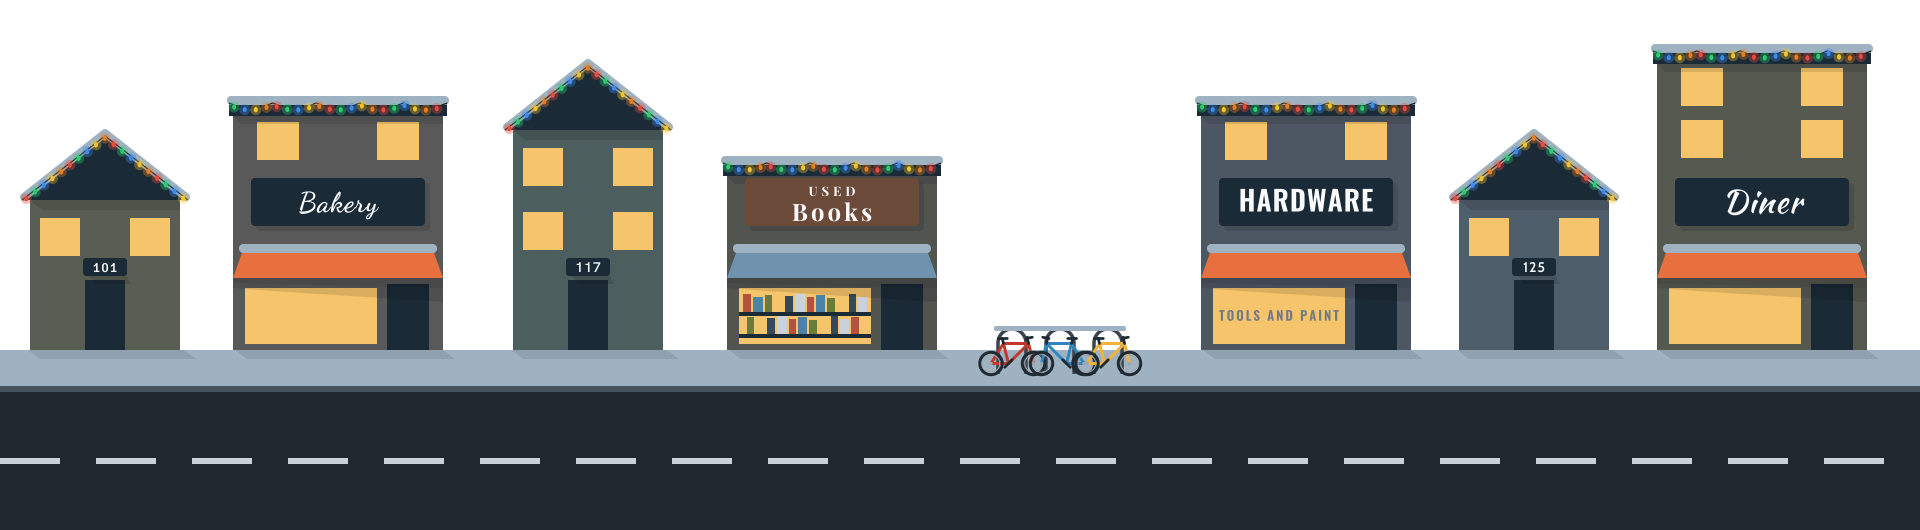
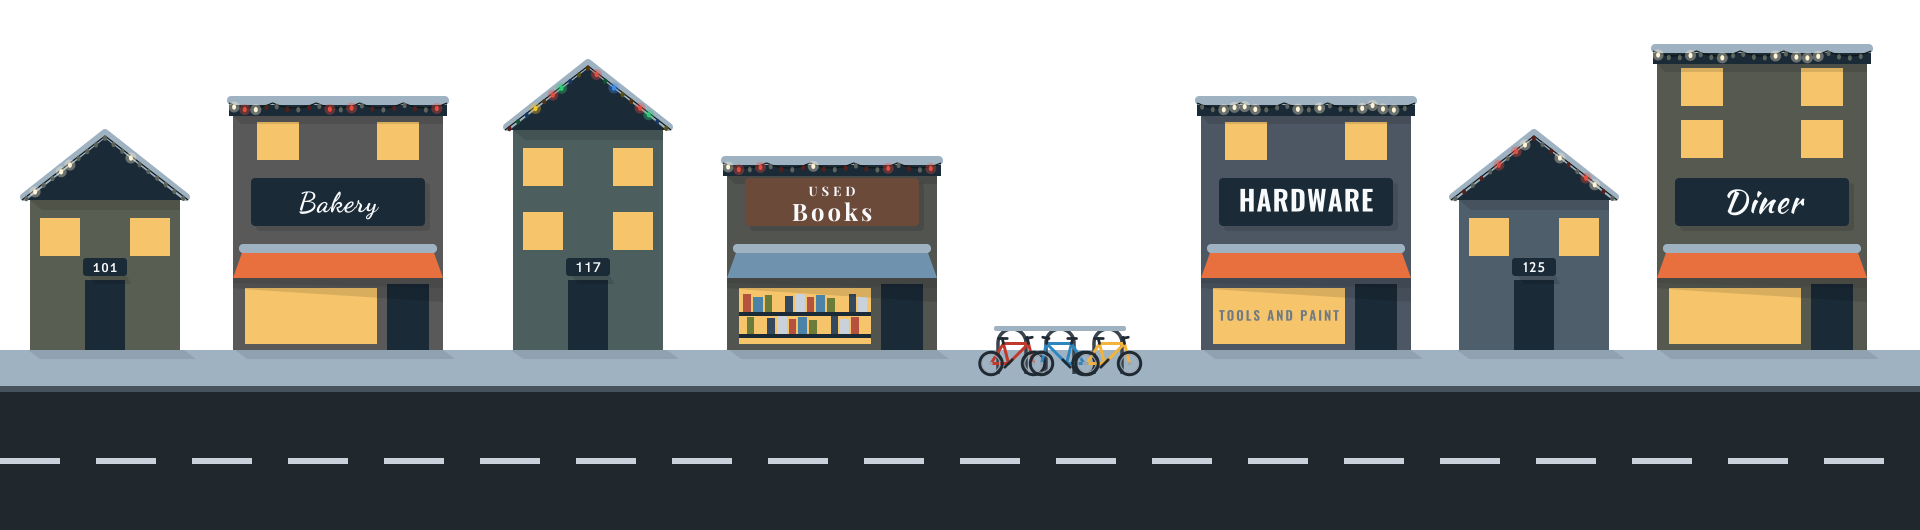
Show kayaks only in spring and summer, and add light styles and blinking
The kayaks beside the river are now drawn only in spring and summer.

Each building's Christmas lights are now rainbow, all white, or red and
white. The new extras.christmas_lights setting picks one style for the
whole town, or "mixed" (the default), where each building gets a style
at random, never the same as the building with lights before it.

At dusk and night, two thirds of the bulbs blink on and off at random.
Each bulb is in one of three groups. The town images draw groups 1 and 2
off, and the generator writes small images of the lit bulbs of each
group for each building. MainScene.brs adds them to the town strip and
turns them on and off at random.

Claude-Session: https://claude.ai/code/session_01F1XyeMhaxYxwWwg1RsrrS5

diff --git a/tools/generate_images.py b/tools/generate_images.py
@@ -18,12 +18,13 @@ import argparse
 import io
 import json
 import os
+import random
 import sys
-from PIL import Image
+from PIL import Image, ImageChops
 
 sys.path.insert(0, os.path.dirname(os.path.abspath(__file__)))
 from riverside import art, scenery, buildings, layout, sprites, previews
-from riverside.art import P, SEASONS, season_palette, christmas_palette, render
+from riverside.art import P, SEASONS, LIGHT_STYLES, BLINK_GROUPS, season_palette, christmas_palette, render
 from riverside.config import load, ConfigError
 
 ROOT = os.path.dirname(os.path.dirname(os.path.abspath(__file__)))
@@ -45,9 +46,27 @@ def pet_size(images, pet):
     with Image.open(os.path.join(images, pet["image"] + ".png")) as im:
         return im.size
 
+def light_styles(town, i):
+    """The style of Christmas lights for each building in town section i. With
+    christmas_lights "mixed", each building with lights gets a style picked at
+    random, but never the same style as the building with lights before it.
+    The random numbers start from the section number, so a building has the
+    same style in every image."""
+    style = town["extras"]["christmas_lights"]
+    if style != "mixed":
+        return [style] * len(town["sections"][i])
+    rnd, prev, out = random.Random(i), None, []
+    for b, x in town["sections"][i]:
+        if b["type"] in buildings.LIT:
+            prev = rnd.choice([s for s in LIGHT_STYLES if s != prev])
+        out.append(prev)
+    return out
+
 def town_section(town, i, p, season):
     section = town["sections"][i]
-    return ("".join(buildings.draw(b, x, p, season) for b, x in section) + scenery.street(p, season, 11 + i)
+    styles = light_styles(town, i) if p.get("christmas") else [None] * len(section)
+    return ("".join(buildings.draw(b, x, dict(p, light_style=style) if style else p, season)
+                    for (b, x), style in zip(section, styles)) + scenery.street(p, season, 11 + i)
             + buildings.sidewalk_shadows(section, p) + buildings.sidewalk_bikes(section, p, season, town["extras"]))
 
 def christmas_seasons(town):
@@ -77,6 +96,56 @@ def write_lamps(town, out):
             for season, suffix in (("summer", ""), ("winter", "_winter")):
                 render(buildings.street_lamp(0, palette(P[pal]), season), f"{left} {top} {w} {h}", w, h,
                        os.path.join(out, f"street_lamp{name}{suffix}_{pal}.png"))
+
+def write_blink(town, out):
+    """The images that make the Christmas lights blink. For each building with
+    lights, there is one image for each blink group (1 and 2) that shows only
+    the lit bulbs of that group, cropped to the building. They are made by
+    drawing the town section with that group lit and keeping the pixels that
+    differ from the town image, so they line up with it exactly. There is an
+    image for each Christmas season, at dusk and at night:
+    blink_<n>_<group>_<season>_<period>.png. Returns [x, y, w, h] for each
+    building n, in townStrip coordinates, for christmasBlink in
+    town_config.json."""
+    seasons = christmas_seasons(town)
+    if not seasons:
+        return []
+    y0, h = CROPS["town"]
+    vb = f"0 {y0} 1920 {h}"
+    entries = []
+    for i, section in enumerate(town["sections"]):
+        fn = layers(town)[f"town_{LETTERS[i]}"]
+        lit = [(b, x) for b, x in section if b["type"] in buildings.LIT]
+        if not lit:
+            continue
+        # Each building's images may use the space up to halfway to the next
+        # building with lights, so no image holds bulbs from a neighbor.
+        edges = [0] + [(x0 + buildings.width(b0) + x1) / 2 for (b0, x0), (b1, x1) in zip(lit, lit[1:])] + [1920]
+        diffs = {}
+        for season in seasons:
+            for pal in ("dusk", "night"):
+                p = season_palette(pal, season)
+                base = Image.open(io.BytesIO(render(fn(christmas_palette(p, lit=(0,)), season), vb, 1920, h))).convert("RGBA")
+                for k in range(1, BLINK_GROUPS):
+                    on = Image.open(io.BytesIO(render(fn(christmas_palette(p, lit=(0, k)), season), vb, 1920, h))).convert("RGBA")
+                    r, g, bl, a = ImageChops.difference(on, base).split()
+                    mask = ImageChops.lighter(ImageChops.lighter(r, g), ImageChops.lighter(bl, a)).point(lambda v: 255 if v else 0)
+                    diffs[(season, pal, k)] = Image.composite(on, Image.new("RGBA", on.size), mask), mask
+        for j in range(len(lit)):
+            left, right = int(edges[j]), int(edges[j + 1])
+            box = None
+            for _, mask in diffs.values():
+                b = mask.crop((left, 0, right, h)).getbbox()
+                if b:
+                    b = (b[0] + left, b[1], b[2] + left, b[3])
+                    box = b if box is None else (min(box[0], b[0]), min(box[1], b[1]), max(box[2], b[2]), max(box[3], b[3]))
+            if box is None:
+                continue
+            n = len(entries)
+            for (season, pal, k), (im, _) in diffs.items():
+                im.crop(box).save(os.path.join(out, f"blink_{n}_{k}_{season}_{pal}.png"), optimize=True)
+            entries.append([i * 1920 + box[0], box[1], box[2] - box[0], box[3] - box[1]])
+    return entries
 
 def layers(town):
     """Returns name -> drawing function(p, season) for every scenery layer."""
@@ -109,10 +178,13 @@ def write_images(town, out):
             if len(seasons) < len(SEASONS):
                 render(fn(P[pal], "summer"), vb, 1920, h, os.path.join(out, f"{name}_{pal}.png"))
             if name.startswith("town"):
-                # The December images, with the Christmas decorations
+                # The December images, with the Christmas decorations. Only
+                # the bulbs in group 0 are lit; the others blink (see
+                # write_blink).
                 for season in christmas_seasons(town):
-                    render(fn(christmas_palette(season_palette(pal, season)), season), vb, 1920, h,
+                    render(fn(christmas_palette(season_palette(pal, season), lit=(0,)), season), vb, 1920, h,
                            os.path.join(out, f"{name}_christmas_{season}_{pal}.png"))
+    town["blink"] = write_blink(town, out)
     sprites.write(out)
     if town["extras"]["street_lights"]:
         write_lamps(town, out)
@@ -140,6 +212,7 @@ def runtime_config(town, images):
         "parkedCarX": town["parked_car_x"], "radioLight": radio_light(town), "lamps": town["lamps"],
         "airplane": ex["airplane"], "fireflies": ex["fireflies"], "fallingLeaves": ex["falling_leaves"],
         "seasons": ex["seasons"], "christmasSeasons": christmas_seasons(town),
+        "christmasBlink": town.get("blink", []),
     }
 
 def radio_light(town):

diff --git a/tools/riverside/art.py b/tools/riverside/art.py
@@ -190,14 +190,27 @@ def flower_box(season, p, x, y, w=44):
 # lights on the buildings, garland on the gazebo and the columned hall, and
 # wreaths on the street lamps. The lights are lit at dusk and night.
 BULBS = ["#E74C3C", "#2ECC71", "#3D8BEB", "#F4C430", "#E67E22"]   # Red, green, blue, yellow, orange
+WARM_WHITE = "#FFF4D6"
+# The bulb colors for each style of lights. A building uses one style.
+LIGHT_STYLES = {"rainbow": BULBS, "white": [WARM_WHITE], "red_white": ["#E74C3C", WARM_WHITE]}
+# Each bulb is in one of three groups, picked from its position. Group 0 stays
+# on. Groups 1 and 2 blink: the town images draw them off, and MainScene.brs
+# turns them on and off at random with small images of the lit bulbs (see
+# write_blink() in generate_images.py).
+BLINK_GROUPS = 3
 GARLAND = "#2F6B3A"
 GARLAND_DARK = "#1E4A28"
 BERRY = "#C0392B"
 
-def christmas_palette(p):
+def christmas_palette(p, lit=(0, 1, 2)):
     """A copy of palette p that tells the drawings to add the Christmas
-    decorations."""
-    return dict(p, christmas=True)
+    decorations. lit lists the bulb groups that are on at dusk and night."""
+    return dict(p, christmas=True, lit=tuple(lit))
+
+def bulb_group(x, y):
+    """The blink group of the bulb at (x, y). The numbers mix the position up,
+    so bulbs next to each other are usually in different groups."""
+    return (((round(x * 10) * 73856093) ^ (round(y * 10) * 19349663)) >> 5) % BLINK_GROUPS
 
 def is_christmas(p):
     return p.get("christmas", False)
@@ -232,15 +245,19 @@ def scallops(x0, x1, y, sag=5, width=40):
     return swags(x0, x1, y, sag, max(1, round((x1 - x0) / width)))
 
 def christmas_lights(pts, p, spacing=11, start=0):
-    """A string of colored bulbs on a thin wire along the line through pts.
-    start picks the color of the first bulb, so strings next to each other do
-    not all begin with the same color. The bulbs glow at dusk and night."""
-    lit = is_dark(p)
+    """A string of bulbs on a thin wire along the line through pts, in the
+    building's style of lights (light_style in p, set by town_section() in
+    generate_images.py). start picks the color of the first bulb, so strings
+    next to each other do not all begin with the same color. At dusk and
+    night, the bulbs in the groups in p["lit"] glow and the others are off."""
+    dark = is_dark(p)
+    colors = LIGHT_STYLES[p.get("light_style", "rainbow")]
     wire = wall("#24332A", p)
     out = ('<polyline points="' + " ".join(f"{x:.1f},{y:.1f}" for x, y in pts)
            + f'" fill="none" stroke="{wire}" stroke-width="1.2" stroke-linejoin="round"/>')
     for i, (x, y) in enumerate(along(pts, spacing, spacing / 2)):
-        c = BULBS[(start + i) % len(BULBS)]
+        c = colors[(start + i) % len(colors)]
+        lit = dark and bulb_group(x, y) in p.get("lit", (0, 1, 2))
         if lit:
             out += f'<circle cx="{x:.1f}" cy="{y + 2:.1f}" r="5.5" fill="{c}" fill-opacity="0.35"/>'
         else:

diff --git a/tools/riverside/scenery.py b/tools/riverside/scenery.py
@@ -154,7 +154,7 @@ def near_b(p, season):
 TREES = [(60,692),(110,686),(170,680),(240,672),(300,668),(620,662),(680,664),(740,658),
          (1300,668),(1360,682),(1420,692),(1700,724),(1780,724),(1860,714)]
 
-# Kayaks pulled up on the grass beside the river, in every season but winter.
+# Kayaks pulled up on the grass beside the river, in spring and summer only.
 # There is only one river, on hills tile A, so all the kayaks are there. Each
 # is (center x, center y, angle in degrees, color, size). The ones higher up
 # the river are farther away, so they are smaller. The colors are day colors,
@@ -163,7 +163,7 @@ KAYAKS = [(676, 806, -14, "#D9452F", 1), (1172, 846, 22, "#F2B33D", 1), (1218, 8
           (1290, 798, -10, "#27AE60", 1), (822, 736, -6, "#8E44AD", 0.75), (788, 756, 8, "#F2B33D", 0.75),
           (1290, 714, 10, "#D9452F", 0.7), (884, 699, -4, "#2E86C1", 0.6)]
 def kayaks(p, season, places=KAYAKS):
-    if season == "winter":
+    if season not in ("spring", "summer"):
         return ""
     s = ""
     for cx, cy, angle, color, size in places:

diff --git a/tools/riverside/config.py b/tools/riverside/config.py
@@ -65,7 +65,8 @@ PETS = {"cat": ["black", "gray", "tabby", "white", "gray_white"], "guinea_pig": 
         "dog": ["yellow_lab", "black_lab", "chocolate_lab", "beagle", "corgi", "dalmatian", "dachshund", "husky"]}
 PET_IMAGE = {"cat": "cat", "guinea_pig": "guinea", "dog": "dog"}   # The first part of each image name
 EXTRAS = {"airplane": True, "kayaks": True, "fireflies": True, "falling_leaves": True, "seasons": True,
-          "table_mountain": False, "bikes": False, "street_lights": False, "christmas": True}
+          "table_mountain": False, "bikes": False, "street_lights": False, "christmas": True,
+          "christmas_lights": "mixed"}
 RADIO = dict(color="#E4DCCD", font="racing", weight=400, letter_color="#D32F2F", tower=True)
 
 # Text fields that are not drawn with the building's own font

diff --git a/tools/riverside/buildings.py b/tools/riverside/buildings.py
@@ -873,6 +873,9 @@ def street_lamps(xs, p, season):
     """The lamps at each x in xs, for the previews."""
     return "".join(street_lamp(x, p, season) for x in xs)
 
+# Building types with Christmas lights in December
+LIT = {"house", "shop", "church", "school", "columned_hall", "gas_station", "drive_through"}
+
 # Building types with walls down to the sidewalk, which get a shadow on it
 SOLID = {"house", "shop", "church", "school", "columned_hall"}
 

diff --git a/README.md b/README.md
@@ -64,8 +64,8 @@ These images are drawn by `tools/generate_images.py` from the same artwork the s
   | Fall | September 22 to December 20 | Gold hills, orange and red trees, pumpkins by doors, leaves on the sidewalk, falling leaves |
   | Winter | December 21 to March 19 | Snow on the hills, mountains, roofs, sidewalk, and pine trees, bare trees, a frozen river |
 
-  The dates are close to the equinoxes and solstices, which move by a day or so from year to year. In the southern hemisphere, the seasons are the other way around. Pine trees stay green all year. Some are plain triangles, and the others have one or two small notches cut into their sides, in four different patterns. There is one river, and in every season but winter, eight kayaks in different colors sit on the grass on both sides of it.
-- Christmas decorations for all of December (in both hemispheres): strings of colored lights along the roofs of the houses, shops, churches, school, columned hall, gas station, and drive-through restaurant, a wreath on each street light, and garland on the gazebo, the town sign, and the columned hall. The gazebo also gets a wreath on each front post. The lights glow at dusk and night. The pumpkins are put away in December. The radio station and the scenery behind the town do not change. `extras.christmas` in `town.json` turns them off.
+  The dates are close to the equinoxes and solstices, which move by a day or so from year to year. In the southern hemisphere, the seasons are the other way around. Pine trees stay green all year. Some are plain triangles, and the others have one or two small notches cut into their sides, in four different patterns. There is one river, and in spring and summer, eight kayaks in different colors sit on the grass on both sides of it.
+- Christmas decorations for all of December (in both hemispheres): strings of lights along the roofs of the houses, shops, churches, school, columned hall, gas station, and drive-through restaurant, a wreath on each street light, and garland on the gazebo, the town sign, and the columned hall. The gazebo also gets a wreath on each front post. Each building's lights are rainbow colored, all white, or red and white. At dusk and night the lights glow, and two thirds of the bulbs blink on and off at random. The pumpkins are put away in December. The radio station and the scenery behind the town do not change. `extras.christmas` in `town.json` turns them off.
 - Weather effects from the current weather:
   - Clouds: the number of clouds follows the cloud cover from the weather, in percent. Below 25 percent there are a few clouds, from 25 percent there are more, from 50 percent there are many larger clouds, and from 85 percent the sky is overcast: a gray layer of cloud covers the top of the sky with no separate clouds under it, the sky is gray, and the stars, the sun, and the moon are hidden. The weather code also sets the fewest clouds that can show, so the sky matches the text in the panel: "Partly cloudy" shows at least the second level, fog and showers at least the third, and "Overcast", drizzle, rain, snow, and thunderstorms show an overcast sky.
   - Rain and drizzle: falling rain.
@@ -163,14 +163,15 @@ Only `location` is required. The [town.json](town.json) in this repository is a 
 | `cars` | Which cars drive by: `"sedan"`, `"van"`, `"jeep"`, `"truck"`, `"sports"`, and `"buggy"`. At least 2. | all six |
 | `special_cars` | Special cars from movies: `"aston"` (the silver Aston Martin DB5 from Goldfinger), `"herbie"` (Herbie, the Love Bug: a pearl white 1963 VW Beetle with the number 53 on the door), `"kitt"` (KITT from Knight Rider: a black 1982 Pontiac Trans Am with a red scanner light on the nose), `"ecto1"` (the Ecto-1 from Ghostbusters: a white and red 1959 Cadillac ambulance with equipment on the roof), `"delorean"` (the DeLorean time machine from the first Back to the Future movie), `"mcqueen"` (Lightning McQueen from Cars: a red race car with the number 95), and `"mustang"` (the dark gray 1969 Ford Mustang Mach 1 from John Wick). Each one first drives by 6 to 25 seconds after the screensaver starts, then about once every 20 seconds to 1 minute. Special cars never park at the gas station. | none |
 | `extras.airplane` | The airplane | `true` |
-| `extras.kayaks` | The kayaks beside the river | `true` |
+| `extras.kayaks` | The kayaks beside the river, in spring and summer | `true` |
 | `extras.fireflies` | Fireflies on summer nights | `true` |
 | `extras.falling_leaves` | Falling leaves in October and November (April and May in the southern hemisphere) | `true` |
 | `extras.seasons` | Seasons from the date. When it is `false`, it is always summer, but snow still shows while it is snowing. | `true` |
 | `extras.table_mountain` | A flat-topped mountain in the shape of Table Mountain, in the center of the far mountains | `false` |
 | `extras.bikes` | Two bikes parked beside the radio station (not in winter). Bike racks have bikes either way. | `false` |
 | `extras.street_lights` | Old-fashioned cast iron street lights along the sidewalk, about 480 pixels apart. A light moves to the side when it would cover a house number. Animals walk behind the lights. Their lanterns light up at dusk and night. | `false` |
-| `extras.christmas` | Christmas decorations in December: colored lights along the roofs of the buildings in town, a wreath on each street light, and garland on the gazebo, the town sign, and the columned hall. The lights glow at dusk and night. | `true` |
+| `extras.christmas` | Christmas decorations in December: lights along the roofs of the buildings in town, a wreath on each street light, and garland on the gazebo, the town sign, and the columned hall. The lights glow at dusk and night, and most of the bulbs blink at random. | `true` |
+| `extras.christmas_lights` | The style of the Christmas lights: `"rainbow"`, `"white"`, `"red_white"`, or `"mixed"`, where each building gets one of the three styles, never the same style as the building with lights before it. | `"mixed"` |
 
 ### Buildings
 

diff --git a/AGENTS.md b/AGENTS.md
@@ -64,11 +64,12 @@ These apply to code, comments, commit messages, README.md, and this file.
 
 - `currentSeason()` in `components/MainScene.brs` picks the season from fixed dates: spring from March 20, summer from June 21, fall from September 22, and winter from December 21. `m.seasonOverride` forces one season. With `seasons` off in the settings it is always summer. In the southern hemisphere the season is swapped (winter and summer, spring and fall).
 - Season colors are in `SEASON_COLORS` in `tools/riverside/art.py`. Write only the day color. `season_palette()` makes the dusk and night colors by darkening the day color the same way the summer palette darkens that key. New keys that are not in `P` must be added to `SEASON_BASE_KEY` so they darken like an existing key.
-- There is only one river, on hills tile A, as the owner asked. The kayaks beside it (`extras.kayaks`) are featured, because the owner's family likes kayaking. They are drawn by `kayaks()` in the hills layer, at the positions and sizes in `KAYAKS`; the ones higher up the river are smaller because they are farther away. They are on the grass, not in the water; if the river shape changes, check that they still are. They are not drawn in winter.
+- There is only one river, on hills tile A, as the owner asked. The kayaks beside it (`extras.kayaks`) are featured, because the owner's family likes kayaking. They are drawn by `kayaks()` in the hills layer, at the positions and sizes in `KAYAKS`; the ones higher up the river are smaller because they are farther away. They are on the grass, not in the water; if the river shape changes, check that they still are. They are drawn only in spring and summer.
 - Every scenery layer function takes `(p, season)`. Seasonal details (snow on roofs, pumpkins, flower boxes) use helpers such as `snow_flat()`, `snow_ridge()`, `pumpkins()`, and `flower_box()`, which return an empty string in other seasons.
 - `SEASONAL` in `tools/generate_images.py` and `m.seasonalLayers` in `components/MainScene.brs` must list the same layers and seasons. Every town section has all four seasons; `init()` adds the town sections to `m.seasonalLayers` from the number of sections. Otherwise the scene asks for an image that does not exist.
 - While snow is falling, `applyScene()` uses the winter images in any season. Falling leaves and fireflies are hidden while rain or snow is falling. Nothing falls in spring, as the owner asked. Leaves fall only in October and November (April and May in the southern hemisphere), from `leafMonths()`. In those months, `onLeafTimer()` fades the leaves out and back in at random times (`m.leafOnMin` and the other leaf settings). The leaf animation keeps running while they are faded out, so when they fade back in, they are already partway down the screen.
 - Christmas decorations (`extras.christmas`, on by default) show for all of December, in both hemispheres, as the owner asked. They are only on the town layer and the street lamps: lights along the roofs of the buildings, a wreath on each lamp post, and garland on the gazebo, the town sign, and the columned hall. Leave the radio station and the scenery behind the town without decorations, as the owner asked. The drawings check `is_christmas(p)`: `christmas_palette()` in `art.py` adds a `christmas` key to the palette, so the draw functions keep their `(spec, x, p, season)` arguments. The helpers are `christmas_lights()`, `garland()`, `wreath()`, `bow()`, `swags()`, and `scallops()` in `art.py`. The lights glow when `is_dark(p)`. Pumpkins are not drawn in December, and the gazebo's Christmas decorations take the place of its seasonal ones. The generator writes `town_<letter>_christmas_<season>_<period>.png` for each season in `christmas_seasons()` (the seasons December can fall in, plus winter, because the ground shows snow while it is snowing) and `street_lamp_christmas[_winter]_<period>.png`. The list goes to `christmasSeasons` in `town_config.json`. `christmasTime()` and `townUri()` in `MainScene.brs` use the Christmas town image only when the season the ground shows is in that list, and `m.christmasOverride` forces the decorations on or off. Christmas lights must not hang over a sign; on shops they hang from the top of the roof edge for that reason.
+- Christmas light styles are in `LIGHT_STYLES` in `art.py` (`rainbow`, `white`, `red_white`). `light_styles()` in `generate_images.py` gives each building with lights (`LIT` in `buildings.py`) a style from `extras.christmas_lights`, and `town_section()` passes it to the drawing as `light_style` in the palette. Bulbs blink at random: `bulb_group()` puts each bulb in one of three groups from its position. Group 0 stays on. The Christmas town images draw groups 1 and 2 off (`christmas_palette(p, lit=(0,))`). `write_blink()` draws each section again with group 1 or group 2 lit, keeps only the pixels that changed, and crops them to each building, as `blink_<n>_<group>_<season>_<period>.png` for dusk and night. Their rectangles go to `christmasBlink` in `town_config.json`. `buildBlink()` in `MainScene.brs` adds two posters for each building to `townStrip`, right after the town posters (and a second copy for section A), and `onBlinkTick()` turns about one in four of them on or off every 0.45 seconds. `updateBlink()` shows them only in December at dusk and night. The previews draw every group lit.
 - In winter the sidewalk is a plain snow-colored rectangle. Keep any repeating pattern on the street at a spacing that divides 1920, so it joins up at the tile edges.
 
 ## Scene behavior to keep consistent
